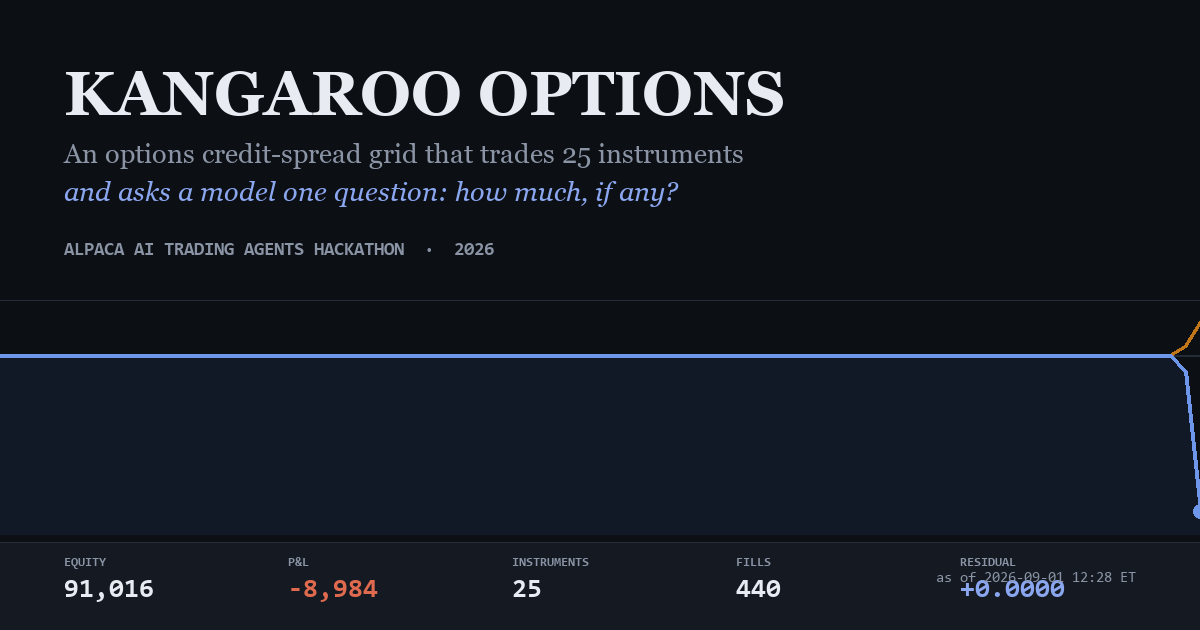
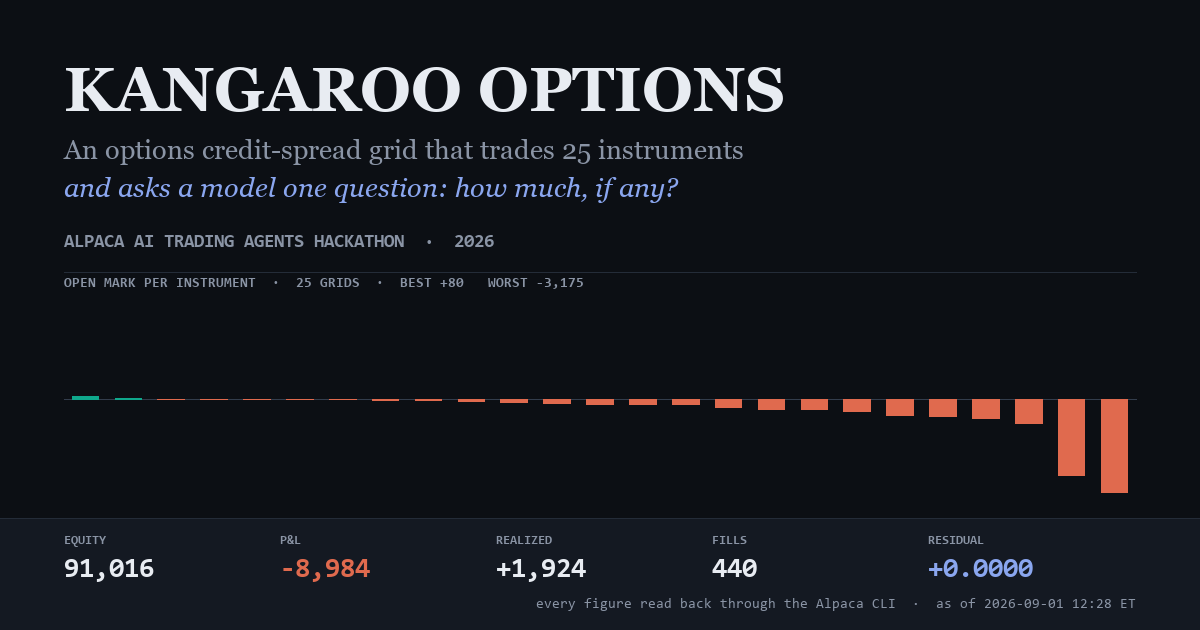
Cover: draw the marks, because the verified curve has three points
After the curve was cut back to levels that survive their checks it holds
Friday flat, Monday close, and the live point. That is the truth and it
makes a flat line with a cliff, which reads as a rendering fault. The 25
instrument marks are the same account, honestly, and they show what the
grid is doing right now: 23 of 25 red.

diff --git a/tools_cover.py b/tools_cover.py
@@ -19,15 +19,20 @@
 # OUT OF OR IN CONNECTION WITH THE SOFTWARE OR THE USE OR OTHER DEALINGS IN THE
 # SOFTWARE.
 
-"""The submission cover image, drawn from the account's own curve.
+"""The submission cover image, drawn from the account's own marks.
 
 A cover made of stock artwork would say nothing about the project. This
-one is the real equity and balance series out of docs/snapshot.json - the
+one is the open mark of every instrument out of docs/snapshot.json - the
 same file the live sheet reads - so the picture on the submission is the
 picture of the account. If the snapshot cannot be read the run FAILS
-rather than falling back to a decorative curve: a fabricated line on the
-cover of a project whose whole argument is measurement would be the worst
-possible thing to ship.
+rather than falling back to decoration: a fabricated chart on the cover of
+a project whose whole argument is measurement would be the worst possible
+thing to ship.
+
+It draws marks rather than the equity curve because the curve, cut back to
+levels that survive their checks, currently holds three points. Three
+points make a flat line with a cliff on it, which reads as a rendering
+fault rather than as a result. 25 bars are the same data honestly.
 
 Usage:
     python tools_cover.py --snapshot docs/snapshot.json --out docs/cover.png
@@ -47,6 +52,7 @@ SURFACE = (20, 25, 34)
 INK = (232, 236, 242)
 MUTED = (138, 148, 165)
 RULE = (36, 44, 56)
+RULE_STRONG = (51, 61, 76)
 ACCENT = (138, 166, 239)
 EQUITY = (46, 95, 191)
 EQUITY_LIT = (110, 150, 235)
@@ -69,55 +75,45 @@ def build(snapshot: dict, width: int = 1200, height: int = 630) -> Image.Image:
     img = Image.new("RGB", (width, height), GROUND)
     d = ImageDraw.Draw(img)
 
-    curve = snapshot["curve"]
-    if len(curve) < 2:
-        raise SystemExit(f"curve has {len(curve)} points - nothing to draw")
+    rows = snapshot["instruments"]
+    if not rows:
+        raise SystemExit("the snapshot holds no instruments - nothing to draw")
 
-    # --- the chart, bled across the lower two thirds --------------------
-    top, bottom = 300, height - 96
-    left, right = 0, width
-    eq = series(curve, "equity")
-    bal = series(curve, "balance")
-    lo = min(min(eq), min(bal))
-    hi = max(max(eq), max(bal))
-    span = (hi - lo) or 1.0
-    # A little headroom so neither line touches an edge.
-    lo, hi = lo - span * 0.12, hi + span * 0.12
-    span = hi - lo
-
-    def xy(values):
-        n = len(values) - 1
-        return [(left + (right - left) * i / n,
-                 bottom - (v - lo) / span * (bottom - top))
-                for i, v in enumerate(values)]
-
-    start = float(snapshot["start_equity"])
-    y_start = bottom - (start - lo) / span * (bottom - top)
-    d.line([(0, y_start), (width, y_start)], fill=RULE, width=2)
-
-    eq_pts = xy(eq)
-    # The area under equity, so the line reads as a body rather than a wire.
-    d.polygon([(0, bottom)] + eq_pts + [(width, bottom)], fill=(17, 24, 38))
-    d.line(xy(bal), fill=BALANCE, width=3, joint="curve")
-    d.line(eq_pts, fill=EQUITY_LIT, width=4, joint="curve")
-    d.ellipse([eq_pts[-1][0] - 7, eq_pts[-1][1] - 7,
-               eq_pts[-1][0] + 7, eq_pts[-1][1] + 7], fill=EQUITY_LIT)
-
-    # --- the header, on a solid band so type never sits on the curve ----
-    d.rectangle([0, 0, width, 300], fill=GROUND)
-    d.line([(0, 300), (width, 300)], fill=RULE, width=1)
-
-    d.text((64, 58), "KANGAROO OPTIONS", font=font("georgiab.ttf", 62),
+    # --- the header, on its own band -----------------------------------
+    d.text((64, 54), "KANGAROO OPTIONS", font=font("georgiab.ttf", 62),
            fill=INK)
-    d.text((64, 138),
+    d.text((64, 134),
            "An options credit-spread grid that trades 25 instruments",
            font=font("georgia.ttf", 27), fill=MUTED)
-    d.text((64, 176),
+    d.text((64, 172),
            "and asks a model one question: how much, if any?",
            font=font("georgiai.ttf", 27), fill=ACCENT)
-
-    d.text((64, 240), "ALPACA AI TRADING AGENTS HACKATHON  ·  2026",
+    d.text((64, 232), "ALPACA AI TRADING AGENTS HACKATHON  ·  2026",
            font=font("consolab.ttf", 19), fill=MUTED)
+    d.line([(64, 272), (width - 64, 272)], fill=RULE, width=1)
+
+    # --- one bar per instrument, at its mark ----------------------------
+    top, bottom = 300, height - 132
+    mid = (top + bottom) / 2
+    marks = sorted((float(r["unrealized"]) for r in rows), reverse=True)
+    scale = max(abs(m) for m in marks) or 1.0
+    half = (bottom - top) / 2 - 6
+
+    left, right = 64, width - 64
+    slot = (right - left) / len(marks)
+    bar = max(6.0, slot * 0.62)
+    d.line([(left, mid), (right, mid)], fill=RULE_STRONG, width=1)
+    for i, m in enumerate(marks):
+        x = left + slot * (i + 0.5)
+        h = abs(m) / scale * half
+        y0, y1 = (mid - h, mid) if m >= 0 else (mid, mid + h)
+        d.rectangle([x - bar / 2, y0, x + bar / 2, y1],
+                    fill=GAIN if m >= 0 else LOSS)
+
+    d.text((left, top - 24),
+           f"OPEN MARK PER INSTRUMENT  ·  {len(marks)} GRIDS  ·  "
+           f"BEST {marks[0]:+,.0f}   WORST {marks[-1]:+,.0f}",
+           font=font("consolab.ttf", 14), fill=MUTED)
 
     # --- the strip of measured numbers ----------------------------------
     pl = float(snapshot["pl_total"])
@@ -125,22 +121,24 @@ def build(snapshot: dict, width: int = 1200, height: int = 630) -> Image.Image:
     cells = [
         ("EQUITY", f"{float(snapshot['equity']):,.0f}", INK),
         ("P&L", f"{pl:+,.0f}", tone),
-        ("INSTRUMENTS", f"{int(snapshot['instruments_open'])}", INK),
+        ("REALIZED", f"{float(snapshot['realized']):+,.0f}", INK),
         ("FILLS", f"{int(snapshot['fills'])}", INK),
         ("RESIDUAL", f"{float(snapshot['residual']):+.4f}", ACCENT),
     ]
-    y = height - 74
-    d.rectangle([0, y - 14, width, height], fill=SURFACE)
-    d.line([(0, y - 14), (width, y - 14)], fill=RULE, width=1)
+    y = height - 96
+    d.rectangle([0, y - 16, width, height], fill=SURFACE)
+    d.line([(0, y - 16), (width, y - 16)], fill=RULE, width=1)
     x = 64
     for label, value, colour in cells:
         d.text((x, y), label, font=font("consolab.ttf", 13), fill=MUTED)
-        d.text((x, y + 20), value, font=font("consolab.ttf", 27), fill=colour)
-        x += 224
+        d.text((x, y + 22), value, font=font("consolab.ttf", 28), fill=colour)
+        x += 216
 
     stamp = str(snapshot["as_of"])[:16].replace("T", " ")
-    d.text((width - 64, y + 26), f"as of {stamp} ET",
-           font=font("consola.ttf", 15), fill=MUTED, anchor="rs")
+    d.text((width - 64, height - 22),
+           f"every figure read back through the Alpaca CLI  ·  "
+           f"as of {stamp} ET",
+           font=font("consola.ttf", 14), fill=MUTED, anchor="rs")
     return img
 
 
